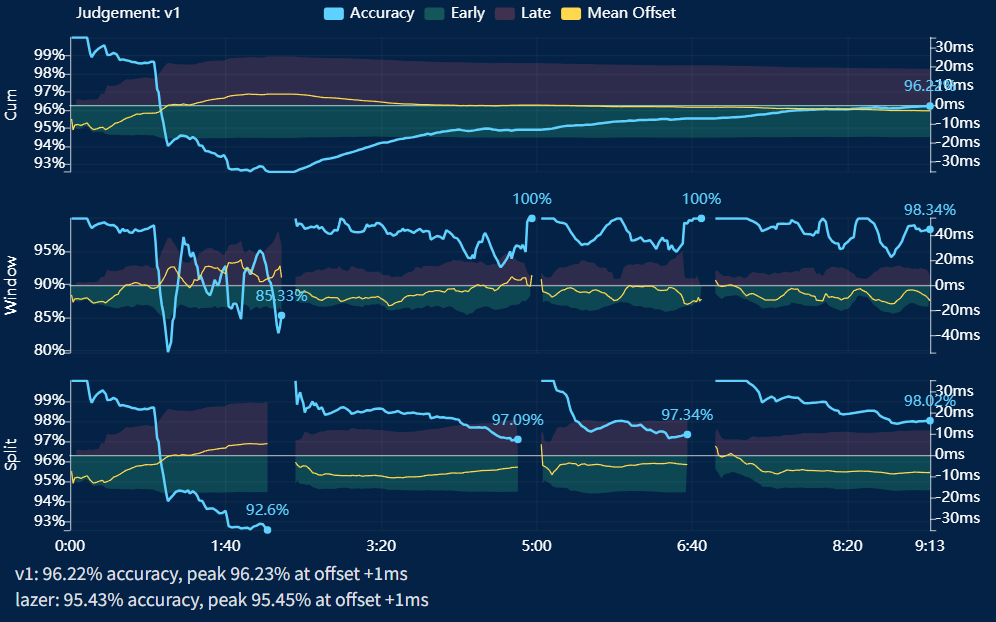
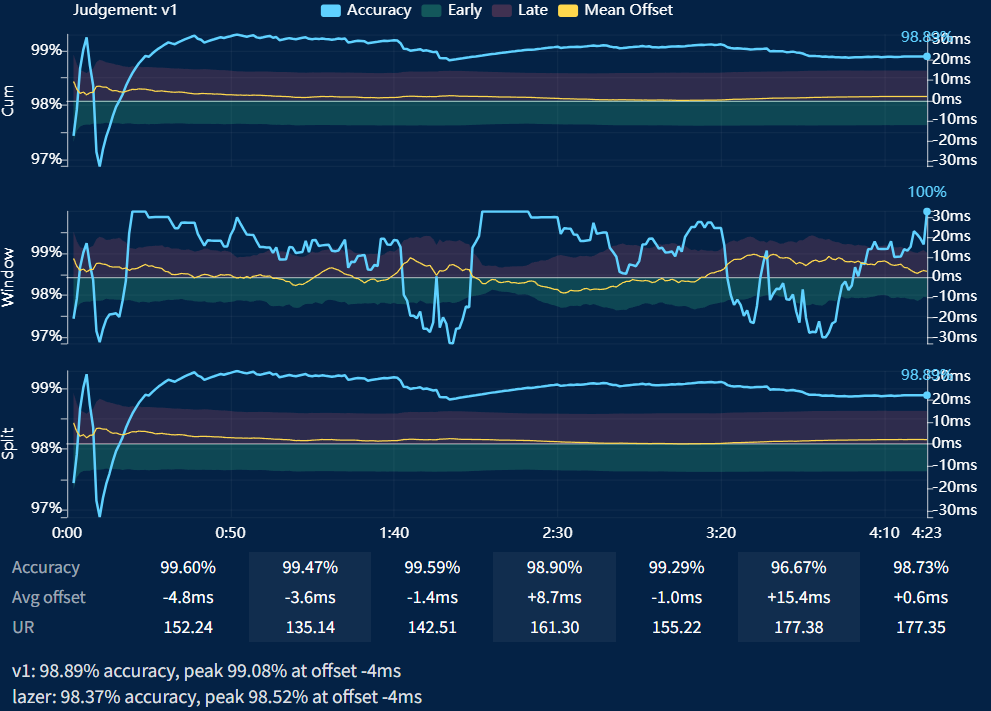
docs: 更新mania-result的示例图 [skip ci]

diff --git a/README.md b/README.md
@@ -34,11 +34,13 @@
 
 ![Mania Result](./assets/mania-result.png)
 
-准确率时间变化图，下方附按 key 分列的表格（accuracy、平均 offset、UR），可选v1(osu!stable)或lazer(osu!lazer)判定。从本地读osr文件需要运行OsuLocalServer。stable刚打完的成绩需要先退出结算界面游戏才生成osr，然后再点回来才显示。
+准确率时间变化图，可选v1(osu!stable)或lazer(osu!lazer)判定。从本地读osr文件需要运行OsuLocalServer。stable刚打完的成绩需要先退出结算界面游戏才生成osr，然后再点回来才显示。
 
 上是累积图，中是10秒时间窗口，下是按空白段分段累积(用于段位)。正负面积图是打早或打晚的均值。参数可以设置
 
-图表下面两行是两种判定这次的准确率，以及把回放整体前后平移多少毫秒时准确率最高(1ms一档，某个方向连续3档没更高就停)
+附按 key 分列的表格（accuracy、平均 offset、UR）。
+
+最下面两行是两种判定这次的准确率，以及把回放整体前后平移多少毫秒时准确率最高(1ms一档，某个方向连续3档没更高就停)
 
 面图有误差，v1约0.2%，lazer约0.1%
 
